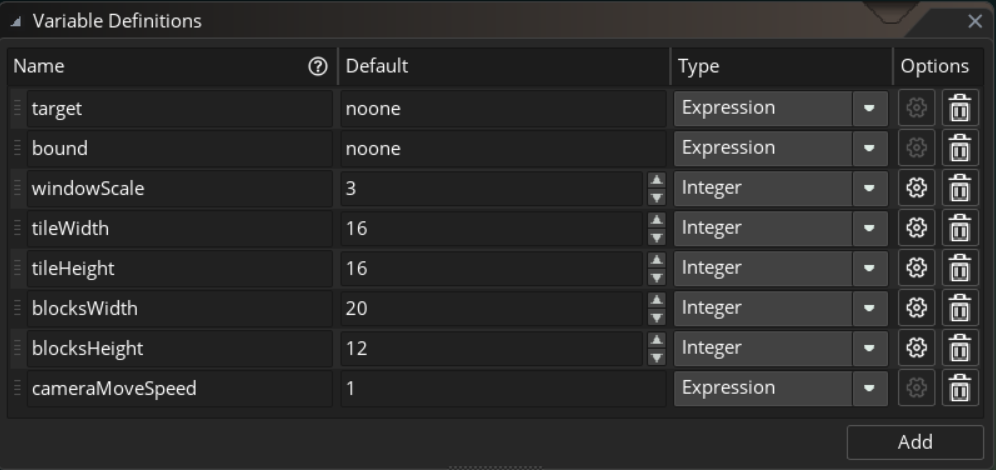
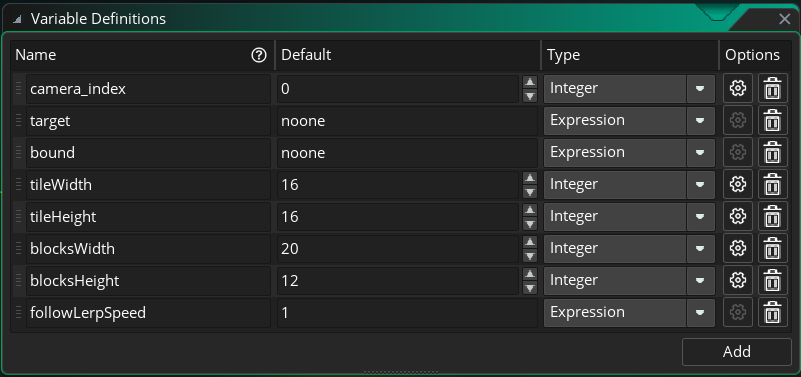
修改相机移动底层代码，添加相机应用方法

diff --git a/README.md b/README.md
@@ -6,11 +6,75 @@ GMS2简易相机
 
 名称 | 功能
 --- | ---
+camera_index | 相机在view_camera中的索引
 target | 相机跟踪的对象，设为noone则为取消跟踪
 bound | 相机移动受限边框，到达边界就无法再移动了
-windowScale | 窗口放大系数，如果设置成1就是原始大小
 tileWidth | tile的宽
 tileHeight | tile的高
 blocksWidth | 希望相机显示多少个tile的宽
 blocksHeight | 希望相机显示多少个tile的高
-cameraMoveSpeed | 跟踪系数，有效值为0~1之间的数，为1的话就是没有过度动画直接设置到跟踪对象的位置
+followLerpSpeed | 跟踪系数，有效值为0~1之间的数，为1的话就是没有过度动画直接设置到跟踪对象的位置
+
+## 方法
+#### 跟踪目标
+```gms2CameraFollow(cam, target)```
+
+参数: 
+- cam: 一个obj_Camera对象
+- target: 要跟踪的对象
+
+#### 停止跟踪目标
+```gms2CameraStopFollow(cam)```
+
+参数: 
+- cam: 一个obj_Camera对象
+
+#### 设置相机位置
+```gms2CameraSetPosition(camera, x, y)```
+
+参数: 
+- cam: 一个obj_Camera对象
+- x: 目标位置横坐标
+- y: 目标位置纵坐标
+
+#### 设置相机旋转
+```gms2CameraSetRotate(cam, angle)```
+
+参数: 
+- cam: 一个obj_Camera对象
+- angle: 旋转的角度
+
+#### 设置相机缩放
+```gms2CameraSetZoom(cam, zoom)```
+
+参数: 
+- cam: 一个obj_Camera对象
+- zoom: 比例值，1为原始比例
+
+#### 设置相机摇晃
+```gms2CameraShake(cam, amount, duration)```
+
+参数: 
+- cam: 一个obj_Camera对象
+- amount: 摇晃幅度
+- duration: 持续时间
+
+#### 相机平移
+```gms2CameraMove(cam, expectX, expectY, speed, ignoreBound)```
+
+参数: 
+- cam: 一个obj_Camera对象
+- expectX: 期望位置横坐标
+- expectY: 期望位置纵坐标
+- speed: 移动速度
+- ignoreBound: 是否忽略相机移动受限边框
+
+#### 相机线性插值平移
+```gms2CameraLerp(cam, expectX, expectY, speed, ignoreBound)```
+
+参数: 
+- cam: 一个obj_Camera对象
+- expectX: 期望位置横坐标
+- expectY: 期望位置纵坐标
+- speed: 插值比例，0~1的数
+- ignoreBound: 是否忽略相机移动受限边框
